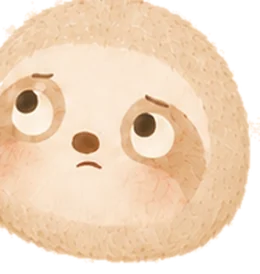
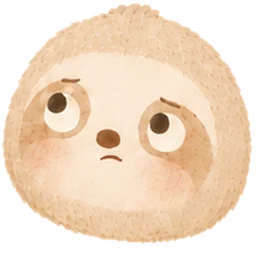
對話框改手繪抖動邊＋SVG 尖尾巴；招呼頁倒掛會晃、拿掉底部條；備註改由慢寶說
- 六張表情重切：逐邊外推到不碰內容，臉不再被切
- 招呼頁=U型倒掛（會慢慢晃），兩入口頁=直直掛著
- 碎碎念改對地方：note 用慢寶頭像＋對話框，tips 回到一般清單

diff --git a/index.html b/index.html
@@ -27,6 +27,9 @@
   --shadow: 0 2px 10px rgba(120, 90, 60, 0.07);
   --tray-h: 62px;
 }
+/* 招呼畫面不要底部菜單條 */
+body.no-tray { --tray-h: 0px; }
+body.no-tray .tray { display: none; }
 
 * { margin: 0; padding: 0; box-sizing: border-box; -webkit-tap-highlight-color: transparent; }
 
@@ -107,45 +110,69 @@ img { display: block; max-width: 100%; }
   text-align: center;
 }
 
-/* 對話框：圓角刻意不對稱，看起來像手畫的，尾巴是圓的不是尖的 */
+/* 對話框：外框走 SVG 位移濾鏡，邊線是抖的，像手畫的，不是 Word 的圓角矩形 */
 .bo-say {
   position: relative;
   display: inline-block;
-  background: var(--surface);
-  border: 1.5px solid var(--line);
-  border-radius: 30px 26px 28px 24px / 26px 30px 24px 28px;
-  padding: 13px 22px;
+  padding: 15px 26px;
   font-size: 15px;
-  line-height: 1.55;
+  line-height: 1.6;
   color: var(--text);
-  box-shadow: 0 3px 12px rgba(150, 110, 70, .09);
   max-width: 300px;
-  margin: 0 auto 16px;
+  margin: 0 auto 22px;
   animation: pop .32s cubic-bezier(.34,1.5,.64,1) both;
 }
-/* 兩顆逐漸變小的圓，softer than a triangle */
-.bo-say::before, .bo-say::after {
-  content: '';
-  position: absolute;
+.bo-say > span { position: relative; z-index: 2; }
+.bo-say::before {                                  /* 泡泡本體 */
+  content: ''; position: absolute; inset: 0; z-index: 1;
   background: var(--surface);
-  border: 1.5px solid var(--line);
-  border-radius: 50%;
+  border: 2px solid var(--line);
+  border-radius: 36px 30px 34px 28px / 30px 36px 28px 34px;
+  filter: url(#wobble);
 }
-.bo-say::before { width: 13px; height: 13px; left: 50%; margin-left: -18px; bottom: -9px; }
-.bo-say::after  { width: 7px;  height: 7px;  left: 50%; margin-left: -3px;  bottom: -19px; }
+/* 尾巴用 SVG 畫，才收得出尖；壓在泡泡底下所以看不到接縫 */
+.bo-tail {
+  position: absolute; z-index: 0;
+  left: calc(50% - 40px); bottom: -27px;
+  width: 46px; height: 38px;
+  overflow: visible;
+  filter: url(#wobble2);
+}
+.bo-tail path { fill: var(--surface); stroke: var(--line); stroke-width: 2.4; stroke-linejoin: round; }
 @keyframes pop { from { opacity: 0; transform: translateY(7px) scale(.95); } to { opacity: 1; transform: none; } }
 
-/* 慢寶在內文裡插嘴：頭像 ＋ 對話框 */
-.bo-aside { display: flex; align-items: flex-start; gap: 10px; margin: 10px 0; }
-.bo-aside img { width: 46px; flex: none; margin-top: 2px; }
+/* 首頁慢寶前後晃 —— 支點在牠抓著樹枝的地方 */
+.bo-stage.sway img {
+  transform-origin: 50% 9%;
+  animation: sway 4.2s ease-in-out infinite;
+}
+@keyframes sway {
+  0%, 100% { transform: rotate(-1.5deg); }
+  50%      { transform: rotate(1.5deg); }
+}
+@media (prefers-reduced-motion: reduce) { .bo-stage.sway img { animation: none; } }
+
+/* 慢寶在內文裡說話：頭像 ＋ 對話框，尾巴指向左邊的牠 */
+.bo-aside { display: flex; align-items: flex-start; gap: 12px; margin: 16px 14px 0; }
+.bo-aside > img { width: 54px; flex: none; margin-top: 4px; }
 .bo-aside .bub {
   position: relative;
+  flex: 1;
+  padding: 13px 17px;
+  font-size: 13.5px; line-height: 1.75; color: var(--muted);
+}
+.bo-aside .bub > span { position: relative; z-index: 2; }
+.bo-aside .bub::before {
+  content: ''; position: absolute; inset: 0; z-index: 1;
   background: var(--surface);
-  border: 1.5px solid var(--line);
-  border-radius: 22px 24px 22px 8px / 22px 22px 24px 10px;
-  padding: 10px 15px;
-  font-size: 13.5px; line-height: 1.7; color: var(--muted);
-  box-shadow: 0 2px 8px rgba(150,110,70,.07);
+  border: 2px solid var(--line);
+  border-radius: 26px 22px 24px 20px / 22px 26px 20px 24px;
+  filter: url(#wobble);
+}
+.bo-aside .bub .bo-tail {
+  left: -20px; bottom: auto; top: 12px;
+  width: 34px; height: 30px;
+  transform: rotate(-104deg);
 }
 
 .bo-stage { width: 100%; max-width: 430px; }
@@ -362,6 +389,17 @@ ol.steps strong { color: var(--brand); font-weight: 700; }
 .urgent b { font-weight: 700; }
 </style>
 
+<svg width="0" height="0" style="position:absolute" aria-hidden="true"><defs>
+  <filter id="wobble">
+    <feTurbulence type="fractalNoise" baseFrequency="0.045" numOctaves="2" seed="7" result="n"/>
+    <feDisplacementMap in="SourceGraphic" in2="n" scale="3.5" xChannelSelector="R" yChannelSelector="G"/>
+  </filter>
+  <filter id="wobble2">
+    <feTurbulence type="fractalNoise" baseFrequency="0.06" numOctaves="2" seed="19" result="n"/>
+    <feDisplacementMap in="SourceGraphic" in2="n" scale="2.5" xChannelSelector="R" yChannelSelector="G"/>
+  </filter>
+</defs></svg>
+
 <div id="viewport"></div>
 
 <div class="tray">
@@ -496,6 +534,8 @@ function route() {
   if (isBack) stack = stack.slice(0, prev + 1);
   else if (stack[stack.length - 1] !== path) stack.push(path);
 
+  if (path !== '/') document.body.classList.remove('no-tray');
+
   const vp = $('#viewport');
   const old = current;
   const page = document.createElement('div');
@@ -527,17 +567,20 @@ function renderHome(el) {
 
 function paintHome(box) {
   if (!homeGreeted) {
+    // 招呼：倒掛，慢慢晃，不要底部菜單條來打擾
+    document.body.classList.add('no-tray');
     box.innerHTML = `
-      <div class="bo-say">${esc(boGreeting())}</div>
-      <div class="bo-stage"><img src="${BO.drape}" alt="慢寶"></div>
+      <div class="bo-say"><span>${esc(boGreeting())}</span><svg class="bo-tail" viewBox="0 0 46 38" aria-hidden="true"><path d="M6 2 L38 2 C33 14, 25 25, 3 35 C14 23, 12 12, 6 2 Z"/></svg></div>
+      <div class="bo-stage sway"><img src="${BO.hang}" alt="慢寶"></div>
       <div class="tap-hint">點一下</div>`;
     box.onclick = () => { homeGreeted = true; markSeen(); paintHome(box); };
     return;
   }
+  document.body.classList.remove('no-tray');
   box.onclick = null;
   box.innerHTML = `
-    <div class="bo-say">今天怎麼辦？</div>
-    <div class="bo-stage"><img src="${BO.hang}" alt="慢寶"></div>
+    <div class="bo-say"><span>今天怎麼辦？</span><svg class="bo-tail" viewBox="0 0 46 38" aria-hidden="true"><path d="M6 2 L38 2 C33 14, 25 25, 3 35 C14 23, 12 12, 6 2 Z"/></svg></div>
+    <div class="bo-stage"><img src="${BO.drape}" alt="慢寶"></div>
     <div class="gate">
       <button class="primary" onclick="go('/wall')">
         <div class="g-t">我知道要吃什麼</div>
@@ -629,7 +672,11 @@ function renderRecipe(el, m) {
       <div class="d-title">${esc(r.title)}</div>
       ${r.subtitle ? `<div class="d-sub">${esc(r.subtitle)}</div>` : ''}
     </div>
-    ${r.note ? `<div class="d-note">${esc(r.note)}</div>` : ''}
+    ${r.note ? `
+      <div class="bo-aside">
+        <img src="${BO.cheeky}" alt="慢寶">
+        <div class="bub"><span>${esc(r.note)}</span><svg class="bo-tail" viewBox="0 0 46 38" aria-hidden="true"><path d="M6 2 L38 2 C33 14, 25 25, 3 35 C14 23, 12 12, 6 2 Z"/></svg></div>
+      </div>` : ''}
     <div class="d-bar">
       <div class="r">
         <span class="lbl">時間</span>
@@ -657,12 +704,8 @@ function renderRecipe(el, m) {
     </div>
     ${r.tips && r.tips.length ? `
       <div class="sect">
-        <div class="sect-t">慢寶碎碎念</div>
-        ${r.tips.map((t, i) => `
-          <div class="bo-aside">
-            <img src="${[BO.sleepy, BO.cheeky, BO.blank, BO.satisfied][i % 4]}" alt="">
-            <div class="bub">${esc(t)}</div>
-          </div>`).join('')}
+        <div class="sect-t">注意事項</div>
+        <ul class="tips">${r.tips.map(t => `<li>${esc(t)}</li>`).join('')}</ul>
       </div>` : ''}
     <div class="sect">
       <button class="tray-go" style="width:100%;padding:14px"
